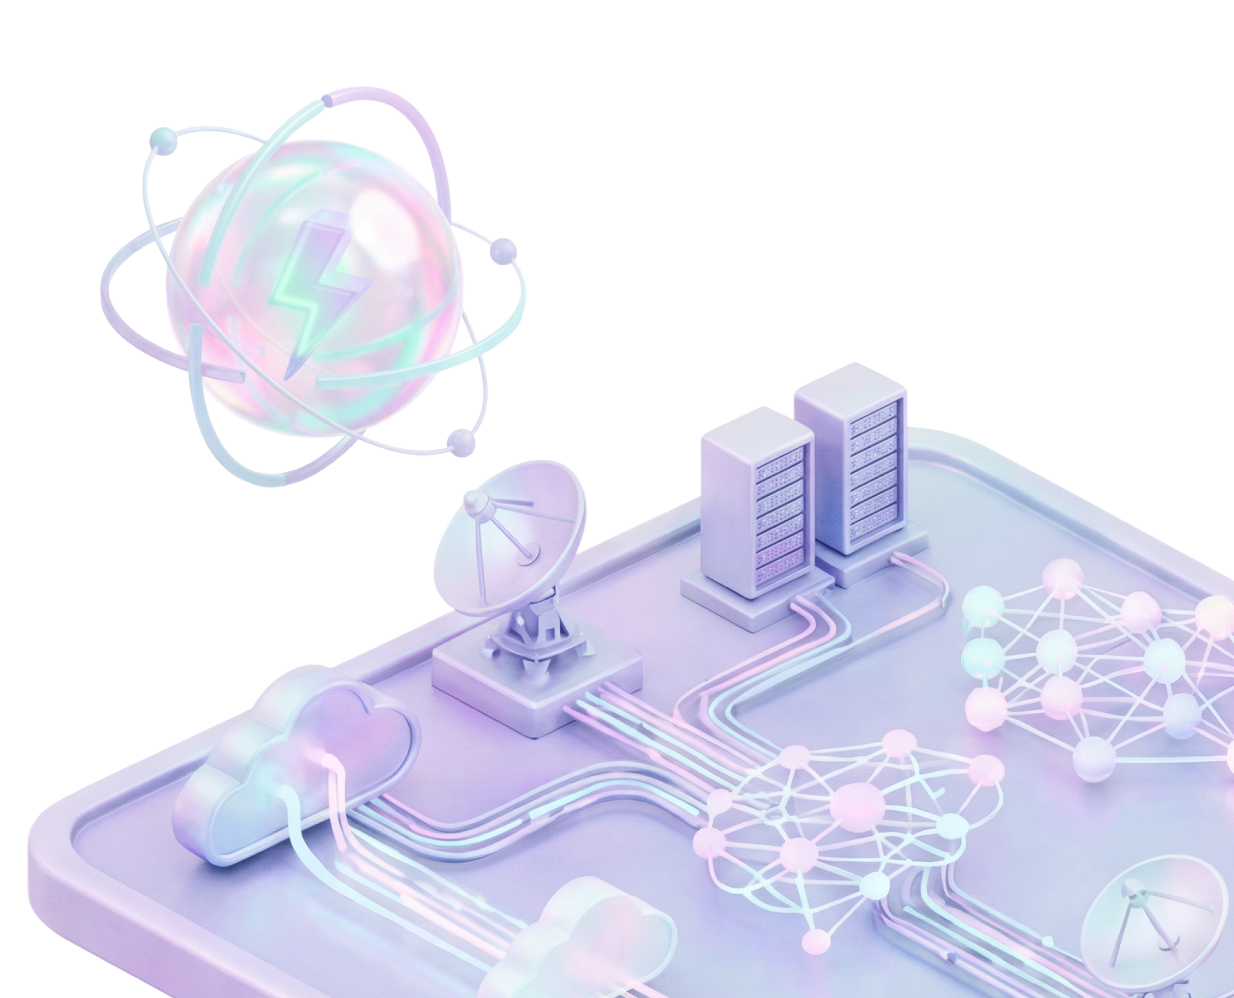
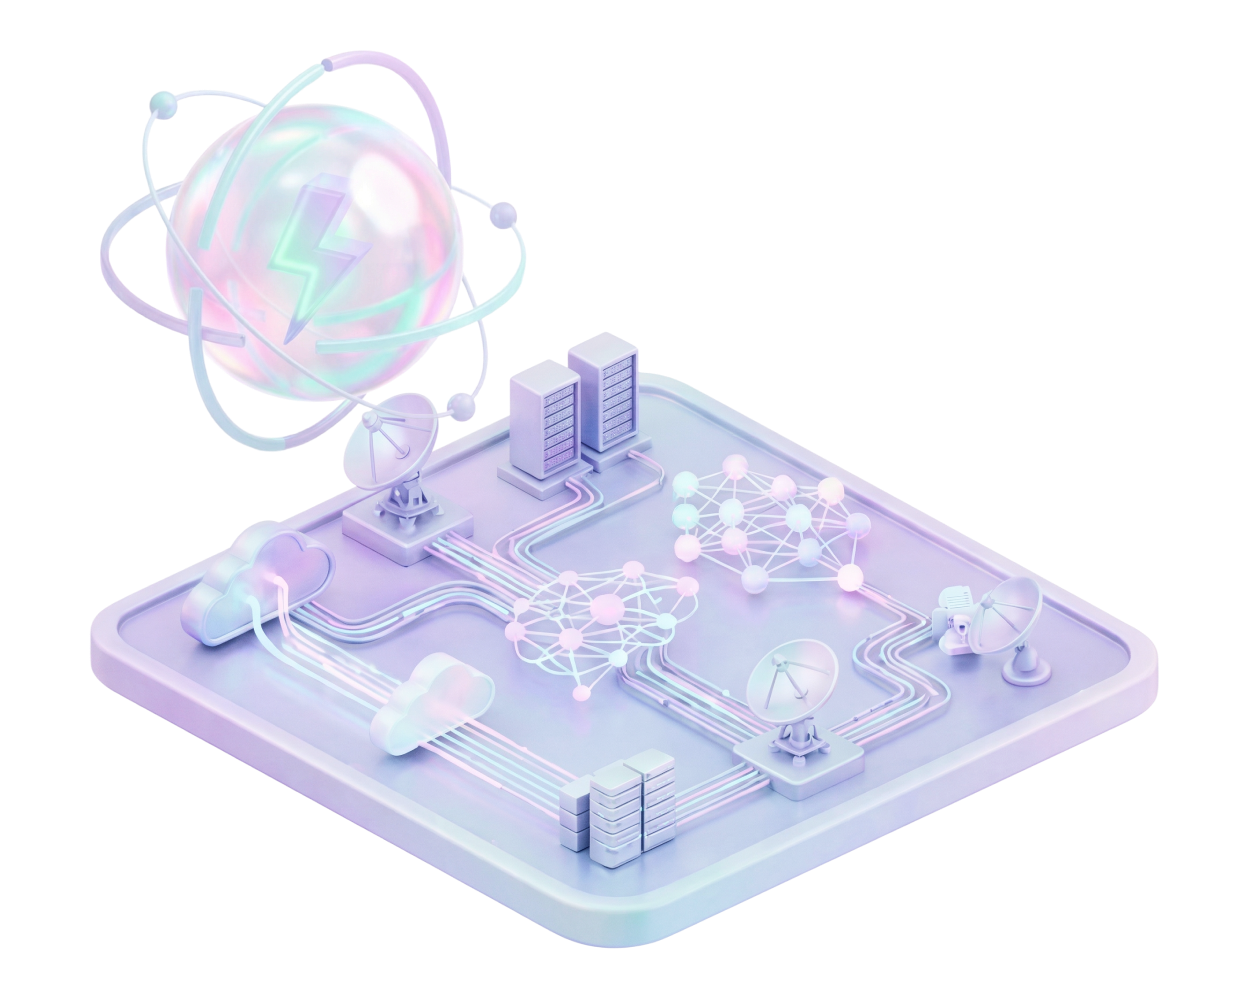
v0.0.40 SK엔터프라이즈 반응형 완료

diff --git a/apps/admin/page-community-view.html b/apps/admin/page-community-view.html
@@ -469,7 +469,10 @@
 												</tbody>
 											</table>
 										</div>
-										<button type="button" class="tmain-scroll-x-end" hidden aria-label="가로 스크롤 맨 오른쪽으로 이동">스크롤</button>
+										<div class="tmain-scroll-x-actions">
+											<button type="button" class="tmain-scroll-x-start" hidden aria-label="가로 스크롤 맨 왼쪽으로 이동">스크롤</button>
+											<button type="button" class="tmain-scroll-x-end" hidden aria-label="가로 스크롤 맨 오른쪽으로 이동">스크롤</button>
+										</div>
 										<script>
 											(function () {
 												const table = document.querySelector('.tbl.type-list table');
@@ -480,31 +483,45 @@
 
 												const tmain = table.closest('.tmain');
 												const scrollHost = table.closest('.tmain-scroll-host');
+												const scrollStartBtn = scrollHost ? scrollHost.querySelector('.tmain-scroll-x-start') : null;
 												const scrollEndBtn = scrollHost ? scrollHost.querySelector('.tmain-scroll-x-end') : null;
 
-												function updateScrollEndBtn() {
-													if (!tmain || !scrollEndBtn) return;
+												function updateScrollBtns() {
+													if (!tmain) return;
 													const epsilon = 4;
 													const maxScrollLeft = tmain.scrollWidth - tmain.clientWidth;
 													const hasHorizontalScroll = maxScrollLeft > epsilon;
+													const atLeftEnd = tmain.scrollLeft <= epsilon;
 													const atRightEnd =
 														maxScrollLeft <= epsilon ||
 														tmain.scrollLeft + tmain.clientWidth >= tmain.scrollWidth - epsilon;
-													scrollEndBtn.hidden = !hasHorizontalScroll || atRightEnd;
+													if (scrollStartBtn) {
+														scrollStartBtn.hidden = !hasHorizontalScroll || atLeftEnd;
+													}
+													if (scrollEndBtn) {
+														scrollEndBtn.hidden = !hasHorizontalScroll || atRightEnd;
+													}
 												}
 
-												if (tmain && scrollEndBtn) {
-													tmain.addEventListener('scroll', updateScrollEndBtn);
-													tmain.addEventListener('scrollend', updateScrollEndBtn);
-													window.addEventListener('resize', updateScrollEndBtn);
+												if (tmain && (scrollStartBtn || scrollEndBtn)) {
+													tmain.addEventListener('scroll', updateScrollBtns);
+													tmain.addEventListener('scrollend', updateScrollBtns);
+													window.addEventListener('resize', updateScrollBtns);
 													if (typeof ResizeObserver !== 'undefined') {
-														new ResizeObserver(updateScrollEndBtn).observe(tmain);
+														new ResizeObserver(updateScrollBtns).observe(tmain);
 													}
-													scrollEndBtn.addEventListener('click', function () {
-														const maxLeft = Math.max(0, tmain.scrollWidth - tmain.clientWidth);
-														tmain.scrollTo({ left: maxLeft, behavior: 'smooth' });
-													});
-													updateScrollEndBtn();
+													if (scrollStartBtn) {
+														scrollStartBtn.addEventListener('click', function () {
+															tmain.scrollTo({ left: 0, behavior: 'smooth' });
+														});
+													}
+													if (scrollEndBtn) {
+														scrollEndBtn.addEventListener('click', function () {
+															const maxLeft = Math.max(0, tmain.scrollWidth - tmain.clientWidth);
+															tmain.scrollTo({ left: maxLeft, behavior: 'smooth' });
+														});
+													}
+													updateScrollBtns();
 												}
 
 												tbody.addEventListener('click', function (event) {
@@ -526,7 +543,7 @@
 													detailRows.forEach(function (detailRow) {
 														detailRow.hidden = isExpanded;
 													});
-													updateScrollEndBtn();
+													updateScrollBtns();
 												});
 											})();
 										</script>

diff --git a/apps/admin/src/styles/app.scss b/apps/admin/src/styles/app.scss
@@ -1319,11 +1319,23 @@ article {
       position: relative;
       min-height: 0;
 
-      .tmain-scroll-x-end {
+      .tmain-scroll-x-actions {
+        width: 100%;
+        display: flex;
+        justify-content: space-between;
         position: absolute;
-        right: 10px;
-        top: 10px;
+        // right: 10px;
+        left: 0;
+        top: 0;
+        padding: 8px;
         z-index: 4;
+        display: flex;
+        align-items: center;
+        gap: 8px;
+      }
+
+      .tmain-scroll-x-start,
+      .tmain-scroll-x-end {
         display: inline-flex;
         align-items: center;
         justify-content: center;
@@ -1339,9 +1351,6 @@ article {
         line-height: 1;
         cursor: pointer;
         transition: background-color 0.15s ease, box-shadow 0.15s ease;
-        display: flex;
-        align-items: center;
-        justify-content: center;
         text-indent: -999rem;
 
         &:after {
@@ -1349,7 +1358,6 @@ article {
           display: block;
           width: 16px;
           height: 24px;
-          background-image: url('../images/cal-arrow-r.png');
           background-size: contain;
           background-repeat: no-repeat;
           background-position: center;
@@ -1359,6 +1367,14 @@ article {
           background-color: #f5f7fb;
           box-shadow: 0 3px 10px rgba(15, 23, 42, 0.16);
         }
+      }
+
+      .tmain-scroll-x-start:after {
+        background-image: url('../images/cal-arrow-l.png');
+      }
+
+      .tmain-scroll-x-end:after {
+        background-image: url('../images/cal-arrow-r.png');
       }
     }
 

diff --git a/apps/admin/src/styles/contents/modify.scss b/apps/admin/src/styles/contents/modify.scss
@@ -607,7 +607,7 @@ em {
     display: block;
     width: 30px;
     height: 30px;
-    background-image: url(/assets/images/selected-arrow.png);
+    background-image: url(../images/selected-arrow.png);
     background-repeat: no-repeat;
     background-size: contain;
   }